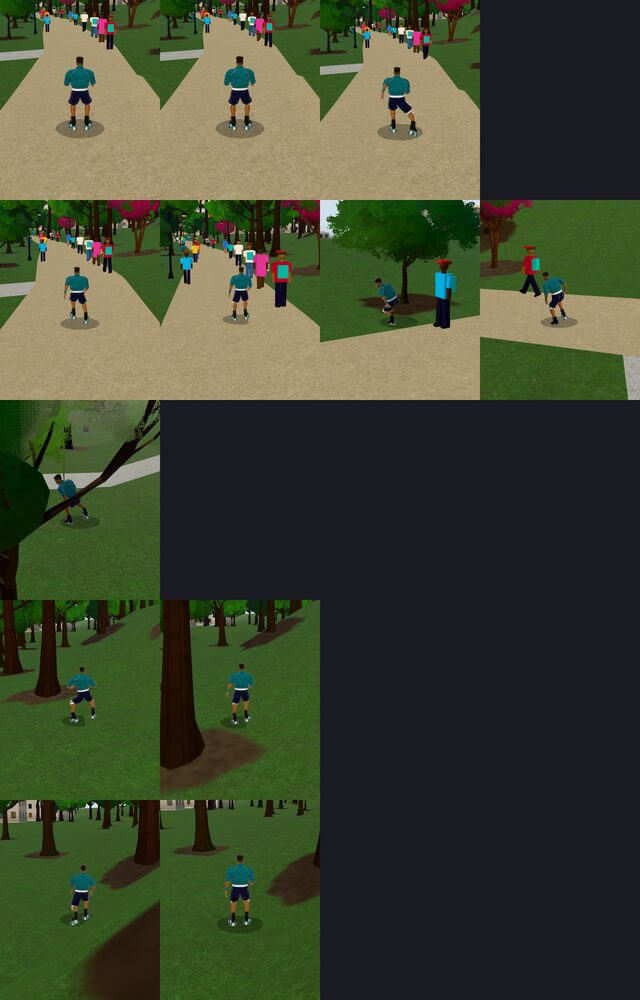
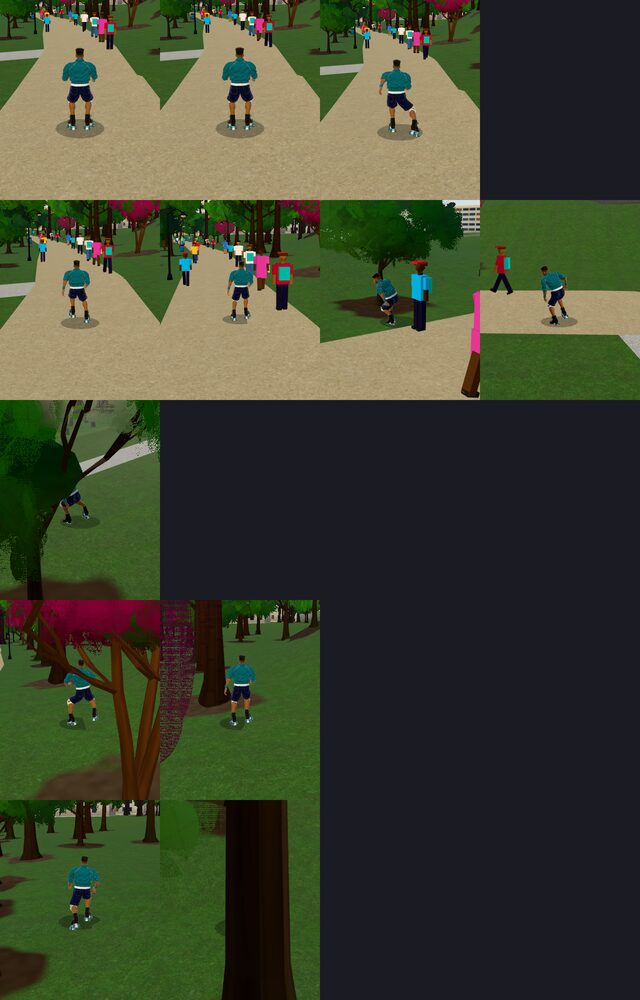
Skater bodies: dossier height and weight set the scale and the physics
- The dossiers get a Body section: Nia 1.68 m and 61 kg, Marcus 1.88 m
  and 79 kg (barefoot; a quad skate adds 0.10 m). SKATER_BODIES in
  src/sim/skate/body.js holds the same values.
- wrapModel() scales each model to the dossier height on skates: Nia
  1.047 (1.78 m), Marcus 1.112 (1.98 m). The GLBs do not change.
- skateFor() derives the skate constants from the body with small
  scaling laws (top speed, push, stroke time, drag, brake, turn rate,
  jump, collision radius). skaterEnv.skate carries them into
  stepSkater(); the capsule keeps SKATE.
- followLineScript() takes the constants, so the e2e rides that match
  the pure controller use Nia's body. The skater viewer face camera and
  the skater-model height range follow the scale.

diff --git a/src/sim/skate/body.js b/src/sim/skate/body.js
@@ -1,0 +1,74 @@
+// The body of each playable skater, from the dossiers in docs/characters/,
+// and the skate constants that follow from it. Pure: no Three.js.
+//
+// The renderer scales the model to the dossier height, and the controller
+// skates with the constants of skateFor(). A skater with no body entry (the
+// capsule, the tests) uses SKATE as it is.
+
+import { SKATE } from "./constants.js";
+
+// height: m, barefoot. weight: kg. meshHeight: m, the GLB from the wheels to
+// the top of the head (assets/skaters/<name>/provenance.json).
+export const SKATER_BODIES = {
+  nia: { height: 1.68, weight: 61, meshHeight: 1.7, stance: "regular", build: "athletic, a strong lower body" },
+  marcus: { height: 1.88, weight: 79, meshHeight: 1.78, stance: "goofy", build: "tall and lean, long legs" },
+};
+
+// The reference body: SKATE (src/sim/skate/constants.js) is tuned for it.
+export const BODY_REF = { height: 1.75, weight: 70 };
+
+// m. The quad skate under the foot: the boot sole, the plate, and a 58 mm
+// wheel. A skater on skates stands this much taller than barefoot.
+export const SKATE_STACK = 0.1;
+
+export const bodyFor = (name) => SKATER_BODIES[name] ?? null;
+
+// The model scale that makes the skater stand at the dossier height on skates.
+export function modelScale(body) {
+  if (!body) return 1;
+  return (body.height + SKATE_STACK) / body.meshHeight;
+}
+
+// The limits of each tuned constant (the min and max in constants.js).
+const LIMITS = {
+  maxSpeed: [8, 16],
+  pushAccel: [5, 12],
+  pushCooldown: [0.25, 0.7],
+  coastDrag: [0.01, 0.04],
+  brakeDecel: [4, 14],
+  carveRate: [1.5, 3.5],
+  jumpSpeed: [3.5, 7],
+  bodyRadius: [0.2, 0.4],
+};
+
+const clamp = (key, v) => Math.min(LIMITS[key][1], Math.max(LIMITS[key][0], v));
+
+// The skate constants for a body. h and m are the height and the weight
+// against BODY_REF. The rules are simple scaling laws, kept small:
+// - Longer legs give a longer stroke: the top speed and the stroke time go
+//   up with sqrt(h).
+// - Muscle force goes up with m^(2/3), so the push acceleration (force per
+//   mass) goes down with m^(-1/3), and up with sqrt(h) for the longer stroke.
+// - Air drag: the front area goes with sqrt(m h), so the drag per mass goes
+//   with sqrt(h / m). A heavier skater coasts further.
+// - The roll friction does not change: it is the same per mass.
+// - A heavier skater stops a little slower (m^(-1/3)) and jumps a little
+//   lower (m^(-1/6) h^(1/4)).
+// - A taller, heavier skater turns a little wider: h^(-1/2) m^(-1/6).
+// - The collision radius goes with the shoulder width, sqrt(m / h).
+export function skateFor(body, base = SKATE) {
+  if (!body) return base;
+  const h = body.height / BODY_REF.height;
+  const m = body.weight / BODY_REF.weight;
+  return {
+    ...base,
+    maxSpeed: clamp("maxSpeed", base.maxSpeed * Math.sqrt(h)),
+    pushAccel: clamp("pushAccel", base.pushAccel * m ** (-1 / 3) * Math.sqrt(h)),
+    pushCooldown: clamp("pushCooldown", base.pushCooldown * Math.sqrt(h)),
+    coastDrag: clamp("coastDrag", base.coastDrag * Math.sqrt(h / m)),
+    brakeDecel: clamp("brakeDecel", base.brakeDecel * m ** (-1 / 3)),
+    carveRate: clamp("carveRate", base.carveRate * h ** (-1 / 2) * m ** (-1 / 6)),
+    jumpSpeed: clamp("jumpSpeed", base.jumpSpeed * m ** (-1 / 6) * h ** (1 / 4)),
+    bodyRadius: clamp("bodyRadius", base.bodyRadius * Math.sqrt(m / h)),
+  };
+}

diff --git a/src/main.js b/src/main.js
@@ -68,6 +68,7 @@ import { createGeoGroundSampler } from "./level/geo/geo-ground.js";
 import { parkedCars } from "./sim/traffic/parking.js";
 import { createCarView } from "./render/car-view.js";
 import { createCarModelView, loadCarModels } from "./render/car-models.js";
+import { bodyFor, skateFor } from "./sim/skate/body.js";
 import { createNpcSkaters, skaterObstacles, stepNpcSkaters } from "./sim/npc/skaters.js";
 import { NPC_DRAW, createNpcSkatersView } from "./render/npc-skaters-view.js";
 import { createPbrLook, installHeightFog, installSkySh, setSkySh, validSkySh } from "./render/pbr-look.js";
@@ -264,6 +265,9 @@ const env = createLevelEnv(level, { props: levelPropsOn, placed: propsBuild && (
 const skaterEnv = createSkaterEnv(level, env.grindables);
 // The style moves pick from this skater's dances (STYLE dances with `skaters`).
 skaterEnv.skater = skaterName;
+// The skate constants follow the skater's body (src/sim/skate/body.js and the
+// dossiers in docs/characters/). The capsule keeps SKATE.
+skaterEnv.skate = skateFor(bodyFor(skaterName));
 const geoMeshes = geo ? await meshBuild.meshes : null;
 performance.mark("atl:meshes");
 const levelView = geo ? createGeoView(level, geoMeshes, { lod0Distance: numParam("lod0"), drawDistance: numParam("propdist"), groundDetail: tier.detail, markings: tier.detail && params.get("markings") !== "0", aprons: tier.detail && params.get("aprons") !== "0", kit: tier.detail && params.get("kit") !== "0", kitGlb: await facadeKitReady(facadeKitNodes), depth: params.get("depth") !== "0", interiors: tier.detail && params.get("interiors") !== "0", farTerrain, farTerrainDistance, farMeshes: farBuild && (await farBuild.meshes), trees: params.get("trees") !== "kit", wind: params.get("wind") !== "0", season: params.get("season") ?? "summer", look, leafCoverage: tier.post === "full" }) : createLevelView(level);
@@ -1440,6 +1444,22 @@ window.__atl = {
     silhouette() {
       const m = skaterView.model;
       return m ? Array.from(silhouette(skaterView.group, m.skinnedMeshes)) : null;
+    },
+    // The model height (m) in the bind pose, from the wheels to the top of
+    // the head: the dossier height plus the skate (src/sim/skate/body.js).
+    restHeight() {
+      const m = skaterView.model;
+      if (!m) return null;
+      m.skinnedMesh.skeleton.pose();
+      m.root.updateMatrixWorld(true);
+      const box = new THREE.Box3().setFromObject(m.root, true);
+      skaterView.sync(skater, 0);
+      return box.max.y - box.min.y;
+    },
+    // The skate constants of this skater's body.
+    get skate() {
+      const k = skaterEnv.skate;
+      return { maxSpeed: k.maxSpeed, pushAccel: k.pushAccel, coastDrag: k.coastDrag, carveRate: k.carveRate, brakeDecel: k.brakeDecel, jumpSpeed: k.jumpSpeed, bodyRadius: k.bodyRadius };
     },
     // The same mask with the skeleton in the bind pose (the T-pose).
     tposeSilhouette() {

diff --git a/src/sim/skate/body.test.js b/src/sim/skate/body.test.js
@@ -1,0 +1,40 @@
+import { describe, expect, it } from "vitest";
+import { BODY_REF, SKATE_STACK, SKATER_BODIES, bodyFor, modelScale, skateFor } from "./body.js";
+import { SKATE } from "./constants.js";
+import { createSkateState, runScript } from "./controller.js";
+
+describe("the skater bodies", () => {
+  it("scales each model to the dossier height on skates", () => {
+    for (const body of Object.values(SKATER_BODIES)) {
+      expect(body.meshHeight * modelScale(body)).toBeCloseTo(body.height + SKATE_STACK, 6);
+    }
+    expect(modelScale(null)).toBe(1);
+    expect(bodyFor("capsule")).toBeNull();
+  });
+
+  it("keeps SKATE for the reference body and for no body", () => {
+    expect(skateFor(null)).toBe(SKATE);
+    const ref = skateFor({ ...BODY_REF });
+    for (const key of ["maxSpeed", "pushAccel", "coastDrag", "carveRate", "brakeDecel", "jumpSpeed", "bodyRadius"]) expect(ref[key]).toBeCloseTo(SKATE[key], 9);
+  });
+
+  it("gives Marcus (taller, heavier) a higher top speed, a longer coast, and a wider turn than Nia", () => {
+    const nia = skateFor(SKATER_BODIES.nia);
+    const marcus = skateFor(SKATER_BODIES.marcus);
+    expect(marcus.maxSpeed).toBeGreaterThan(nia.maxSpeed);
+    expect(marcus.coastDrag).toBeLessThan(nia.coastDrag);
+    expect(marcus.carveRate).toBeLessThan(nia.carveRate);
+    expect(marcus.pushAccel).toBeLessThan(nia.pushAccel);
+    expect(marcus.bodyRadius).toBeGreaterThan(nia.bodyRadius);
+    // Small changes: each constant stays within 12% of SKATE.
+    for (const k of [nia, marcus]) for (const key of ["maxSpeed", "pushAccel", "coastDrag", "carveRate", "brakeDecel", "jumpSpeed", "bodyRadius"]) expect(Math.abs(k[key] / SKATE[key] - 1)).toBeLessThan(0.12);
+  });
+
+  it("changes the ride: Marcus coasts further from the same speed", () => {
+    const coast = (k) => {
+      const s = { ...createSkateState(), speed: 10 };
+      return runScript(s, [{ frames: 180, input: {} }], { k }).state.speed;
+    };
+    expect(coast(skateFor(SKATER_BODIES.marcus))).toBeGreaterThan(coast(skateFor(SKATER_BODIES.nia)));
+  });
+});

diff --git a/e2e/beltline.spec.js b/e2e/beltline.spec.js
@@ -4,6 +4,9 @@ import { createSkateState, runScript } from "../src/sim/skate/controller.js";
 import { createLevelEnv } from "../src/level/ground.js";
 import { pointInRings } from "../src/level/geo/geo-ground.js";
 import { chainStrips, followLineScript } from "../src/playtest/trail-script.js";
+import { bodyFor, skateFor } from "../src/sim/skate/body.js";
+// The page rides Nia (the default skater): the pure side uses her body constants.
+const NIA = skateFor(bodyFor("nia"));
 import { buildingSpan, terrainOf } from "../src/level/geo/terrain.js";
 
 // M1-03: the BeltLine Eastside Trail block from OpenStreetMap loads in the
@@ -126,7 +129,7 @@ test("Nia skates north on the Eastside Trail and the run matches the pure contro
 
   const env = createLevelEnv(LEVEL);
   const [trail] = chainStrips(LEVEL.strips, "trail");
-  const planned = followLineScript(trail, LEVEL.spawn, env, { frames: 600 });
+  const planned = followLineScript(trail, LEVEL.spawn, env, { frames: 600, k: NIA });
   const halfWidth = LEVEL.strips.find((s) => s.kind === "trail").width / 2;
   expect(planned.offTrack).toBeLessThan(halfWidth);
 
@@ -223,7 +226,7 @@ for (const { kind, filter } of [
     const env = createLevelEnv(LEVEL);
     const [mx, mz] = [(a[0] + b[0]) / 2, (a[1] + b[1]) / 2];
     const start = { position: [mx, env.sampleGround(mx, mz).height, mz], yaw: Math.atan2(-(b[1] - a[1]), b[0] - a[0]) };
-    const planned = followLineScript(strip.points, start, env, { frames: 180, cruise: 5 });
+    const planned = followLineScript(strip.points, start, env, { frames: 180, cruise: 5, k: NIA });
     const actual = await page.evaluate(({ script, start }) => window.__atl.runScript(script, start), { script: planned.script, start });
     for (let i = 0; i < 3; i += 1) expect(Math.abs(actual.position[i] - planned.state.position[i])).toBeLessThan(0.01);
     expect(Math.hypot(actual.position[0] - start.position[0], actual.position[2] - start.position[2])).toBeGreaterThan(8);

diff --git a/src/render/skater-model.js b/src/render/skater-model.js
@@ -1,3 +1,4 @@
+import { bodyFor, modelScale } from "../sim/skate/body.js";
 import * as THREE from "three";
 import { GLTFLoader } from "three/examples/jsm/loaders/GLTFLoader.js";
 import { DRACOLoader } from "three/examples/jsm/loaders/DRACOLoader.js";
@@ -40,10 +41,12 @@ export function getDracoLoader() {
 }
 
 // Wraps a glTF scene so that it faces +x with the feet at the wrapper origin.
-export function wrapModel(model) {
+export function wrapModel(model, name = null) {
   const root = new THREE.Group();
   root.name = "skater-model";
   model.rotation.y = MODEL_YAW;
+  // The skater stands at the dossier height on skates (src/sim/skate/body.js).
+  model.scale.setScalar(modelScale(bodyFor(name)));
   root.add(model);
   return root;
 }
@@ -123,7 +126,7 @@ export async function cloneSkaterModel(name = "nia", bytes = null) {
   const skinnedMeshes = skinnedMeshesOf(scene);
   const skinnedMesh = skinnedMeshes[0];
   if (!skinnedMesh) throw new Error(`Skater model ${name} has no skinned mesh`);
-  return { root: wrapModel(scene), skinnedMesh, skinnedMeshes, animations: gltf.animations, face: null };
+  return { root: wrapModel(scene, name), skinnedMesh, skinnedMeshes, animations: gltf.animations, face: null };
 }
 
 // Loads a skater GLB. Returns the wrapper, the skinned meshes, the clips, and
@@ -146,5 +149,5 @@ export async function loadSkaterModel(name = "nia", bytes = null) {
   } catch (err) {
     console.warn(`Skater ${name}: no face decals (${err?.message ?? err})`);
   }
-  return { root: wrapModel(scene), skinnedMesh, skinnedMeshes, animations: gltf.animations, face };
+  return { root: wrapModel(scene, name), skinnedMesh, skinnedMeshes, animations: gltf.animations, face };
 }

diff --git a/src/playtest/trail-script.js b/src/playtest/trail-script.js
@@ -4,6 +4,7 @@
 // same, so the test can compare the two runs.
 
 import { createSkateState, stepSkate, yawFromHeading } from "../sim/skate/controller.js";
+import { SKATE } from "../sim/skate/constants.js";
 
 const near = (a, b) => Math.abs(a[0] - b[0]) < 0.05 && Math.abs(a[1] - b[1]) < 0.05;
 
@@ -74,7 +75,8 @@ function wrap(a) {
 // Rides `frames` steps from the spawn along `line`, in the direction of the
 // spawn yaw. Pushes to `cruise` m/s. Returns { script, state, offTrack }:
 // offTrack is the largest distance from the line, in meters.
-export function followLineScript(line, spawn, env, { frames = 900, dt = 1 / 60, lookAhead = 8, cruise = 8, gain = 2.5 } = {}) {
+// k: the skate constants (SKATE, or a skater body's constants from body.js).
+export function followLineScript(line, spawn, env, { frames = 900, dt = 1 / 60, lookAhead = 8, cruise = 8, gain = 2.5, k = SKATE } = {}) {
   let s = createSkateState({ position: spawn.position, yaw: spawn.yaw });
   const start = projectOnLine(line, s.position[0], s.position[2]).s;
   const probe = pointAt(line, start + 1);
@@ -93,7 +95,7 @@ export function followLineScript(line, spawn, env, { frames = 900, dt = 1 / 60, 
     const last = script[script.length - 1];
     if (last && last.input.steer === input.steer && last.input.push === input.push) last.frames += 1;
     else script.push({ frames: 1, input });
-    s = stepSkate(s, input, dt, env);
+    s = stepSkate(s, input, dt, env, k);
   }
   return { script, state: s, offTrack };
 }

diff --git a/src/viewer/skater-viewer.js b/src/viewer/skater-viewer.js
@@ -4,6 +4,7 @@ import { createRenderer, fitToWindow } from "../render/renderer.js";
 import { fetchSkaterModel, loadSkaterModel } from "../render/skater-model.js";
 import { EYES, MOUTHS } from "../render/face-anim.js";
 import { pbrSkater } from "../render/toon.js";
+import { bodyFor, modelScale } from "../sim/skate/body.js";
 import { RoomEnvironment } from "three/examples/jsm/environments/RoomEnvironment.js";
 
 // Test page for a skater model: skater.html?skater=nia&view=front.
@@ -18,7 +19,9 @@ const VIEWS = {
 // Until the model loads: a 1.7 m skater centered at hip height.
 const TARGET = new THREE.Vector3(0, 0.85, 0);
 // The face close-up: ?view=face. The face center is about 1.44 m up.
-const FACE_TARGET = new THREE.Vector3(0, 1.44, 0);
+// The face of the 1.70 m GLB, before the dossier scale (body.js).
+const FACE_Y = 1.44;
+const FACE_TARGET = new THREE.Vector3(0, FACE_Y, 0);
 let radius = 0.95;
 let currentView = "three-quarter";
 // True once the user rotates or zooms: a resize then keeps their camera.
@@ -156,6 +159,8 @@ try {
     pbrSkater(model);
   }
   scene.add(model.root);
+  // The model stands at the dossier height: the face moves with the scale.
+  FACE_TARGET.y = FACE_Y * modelScale(bodyFor(name));
   clips = model.animations;
   face = model.face;
   if (face && params.get("face")) {

diff --git a/e2e/skater-moves.spec.js b/e2e/skater-moves.spec.js
@@ -127,3 +127,21 @@ for (const name of ["nia", "marcus"]) {
     expect(errors).toEqual([]);
   });
 }
+
+// The dossier body in the game: the model stands at the dossier height on
+// skates, and the controller uses the constants of the body.
+test("each skater stands at the dossier height and skates with its body constants", async ({ page }) => {
+  const { SKATER_BODIES, SKATE_STACK, skateFor } = await import("../src/sim/skate/body.js");
+  for (const name of ["nia", "marcus"]) {
+    await page.goto(`/?level=greybox&mute=1&skater=${name}`);
+    await page.waitForFunction(() => window.__atl && window.__atl.ready && window.__atl.skaterModel.loaded, null, { timeout: 60000 });
+    const got = await page.evaluate(() => ({ height: window.__atl.skaterModel.restHeight(), skate: window.__atl.skaterModel.skate }));
+    const body = SKATER_BODIES[name];
+    expect(got.height, name).toBeGreaterThan(body.height + SKATE_STACK - 0.03);
+    expect(got.height, name).toBeLessThan(body.height + SKATE_STACK + 0.03);
+    expect(got.skate.maxSpeed).toBeCloseTo(skateFor(body).maxSpeed, 6);
+    expect(got.skate.coastDrag).toBeCloseTo(skateFor(body).coastDrag, 6);
+    test.info().annotations.push({ type: name, description: JSON.stringify(got) });
+    console.log(name, JSON.stringify(got));
+  }
+});

diff --git a/e2e/npcs.spec.js b/e2e/npcs.spec.js
@@ -2,6 +2,9 @@ import { expect, test } from "@playwright/test";
 import { readFileSync } from "node:fs";
 import { createLevelEnv } from "../src/level/ground.js";
 import { chainStrips, followLineScript } from "../src/playtest/trail-script.js";
+import { bodyFor, skateFor } from "../src/sim/skate/body.js";
+// The page rides Nia (the default skater): the pure side uses her body constants.
+const NIA = skateFor(bodyFor("nia"));
 import { CROWD } from "../src/sim/npc/crowd.js";
 
 // M1-09: NPCs on the BeltLine. Skaters, joggers, cyclists, dog walkers, and
@@ -35,7 +38,7 @@ test("NPCs ride the trail in view of Nia, apart, and a bump never knocks one dow
   // Nia rides 10 s north on the trail, through the crowd.
   const env = createLevelEnv(LEVEL);
   const [trail] = chainStrips(LEVEL.strips, "trail");
-  const planned = followLineScript(trail, LEVEL.spawn, env, { frames: 600 });
+  const planned = followLineScript(trail, LEVEL.spawn, env, { frames: 600, k: NIA });
   const actual = await page.evaluate((script) => window.__atl.runScript(script), planned.script);
   // The crowd does not change her ride: it still matches the pure controller.
   for (let i = 0; i < 3; i += 1) expect(Math.abs(actual.position[i] - planned.state.position[i])).toBeLessThan(0.01);

diff --git a/e2e/controller.spec.js b/e2e/controller.spec.js
@@ -1,6 +1,9 @@
 import { expect, test } from "@playwright/test";
 import { createSkateState, runScript } from "../src/sim/skate/controller.js";
 import { createLevelEnv } from "../src/level/ground.js";
+import { bodyFor, skateFor } from "../src/sim/skate/body.js";
+// The page rides Nia (the default skater): the pure side uses her body constants.
+const NIA = skateFor(bodyFor("nia"));
 import { GREYBOX } from "../src/level/greybox.js";
 
 // The same script runs in node through the pure controller and in the
@@ -22,7 +25,7 @@ test("the capsule follows the controller and a scripted run lands within toleran
   });
 
   const env = createLevelEnv(GREYBOX);
-  const expected = runScript(createSkateState({ position: GREYBOX.spawn.position, yaw: GREYBOX.spawn.yaw }), SCRIPT, { env }).state;
+  const expected = runScript(createSkateState({ position: GREYBOX.spawn.position, yaw: GREYBOX.spawn.yaw }), SCRIPT, { env, k: NIA }).state;
 
   await page.goto("/?level=greybox&view=orbit");
   await page.waitForFunction(() => window.__atl && window.__atl.ready && window.__atl.frames > 5, null, { timeout: 20000 });

diff --git a/src/sim/skate/skater.js b/src/sim/skate/skater.js
@@ -35,7 +35,9 @@ export function createSkaterEnv(level, extra = []) {
   return { grindables: [...(level ? prepareGrindables(level) : []), ...extra] };
 }
 
-export function stepSkater(prev, input = {}, dt, env = FLAT_GROUND, skaterEnv = { grindables: [] }, k = { skate: SKATE, grind: GRIND }) {
+export function stepSkater(prev, input = {}, dt, env = FLAT_GROUND, skaterEnv = { grindables: [] }, kIn = { skate: SKATE, grind: GRIND }) {
+  // skaterEnv.skate: the skate constants of this skater's body (body.js).
+  const k = skaterEnv.skate ? { ...kIn, skate: skaterEnv.skate } : kIn;
   const grindables = skaterEnv.grindables ?? [];
   const wantsGrind = Boolean(input.grind);
   const grindEdge = wantsGrind && !prev.grindHeld;

diff --git a/e2e/skater-model.spec.js b/e2e/skater-model.spec.js
@@ -1,8 +1,11 @@
 import { expect, test } from "@playwright/test";
 
 const VIEWS = ["front", "back", "left", "right", "three-quarter"];
-// The height range (m) of each skater, with the skates.
-const SKATERS = { nia: [1.65, 1.75], marcus: [1.72, 1.84] };
+import { SKATER_BODIES, SKATE_STACK } from "../src/sim/skate/body.js";
+
+// The height range (m) of each skater, with the skates: the dossier height
+// plus the skate (src/sim/skate/body.js), +-3 cm.
+const SKATERS = Object.fromEntries(Object.entries(SKATER_BODIES).map(([n, b]) => [n, [b.height + SKATE_STACK - 0.03, b.height + SKATE_STACK + 0.03]]));
 
 for (const [name, [minH, maxH]] of Object.entries(SKATERS)) {
 
